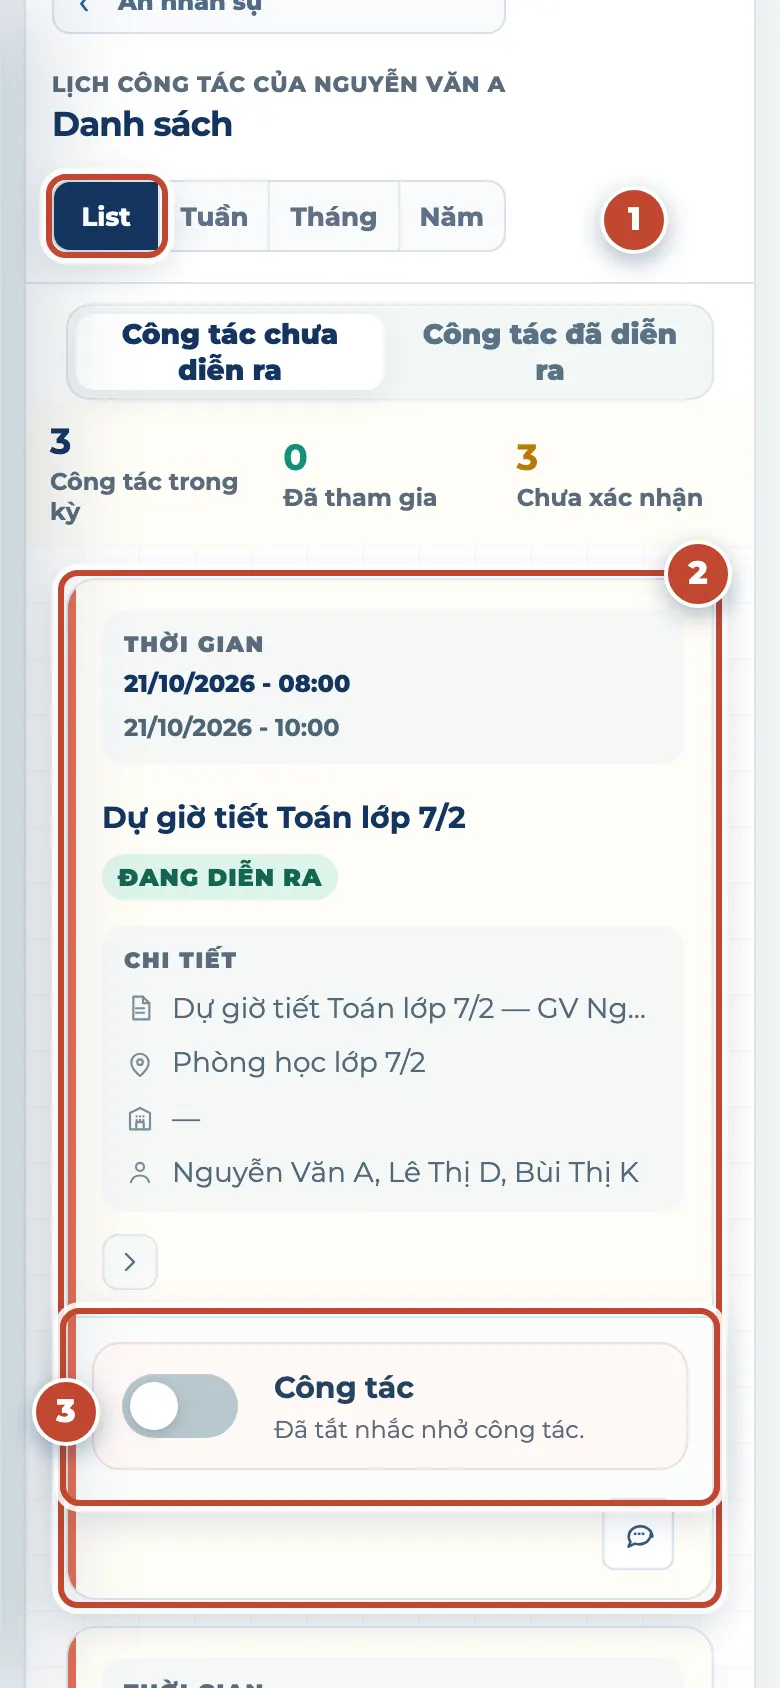
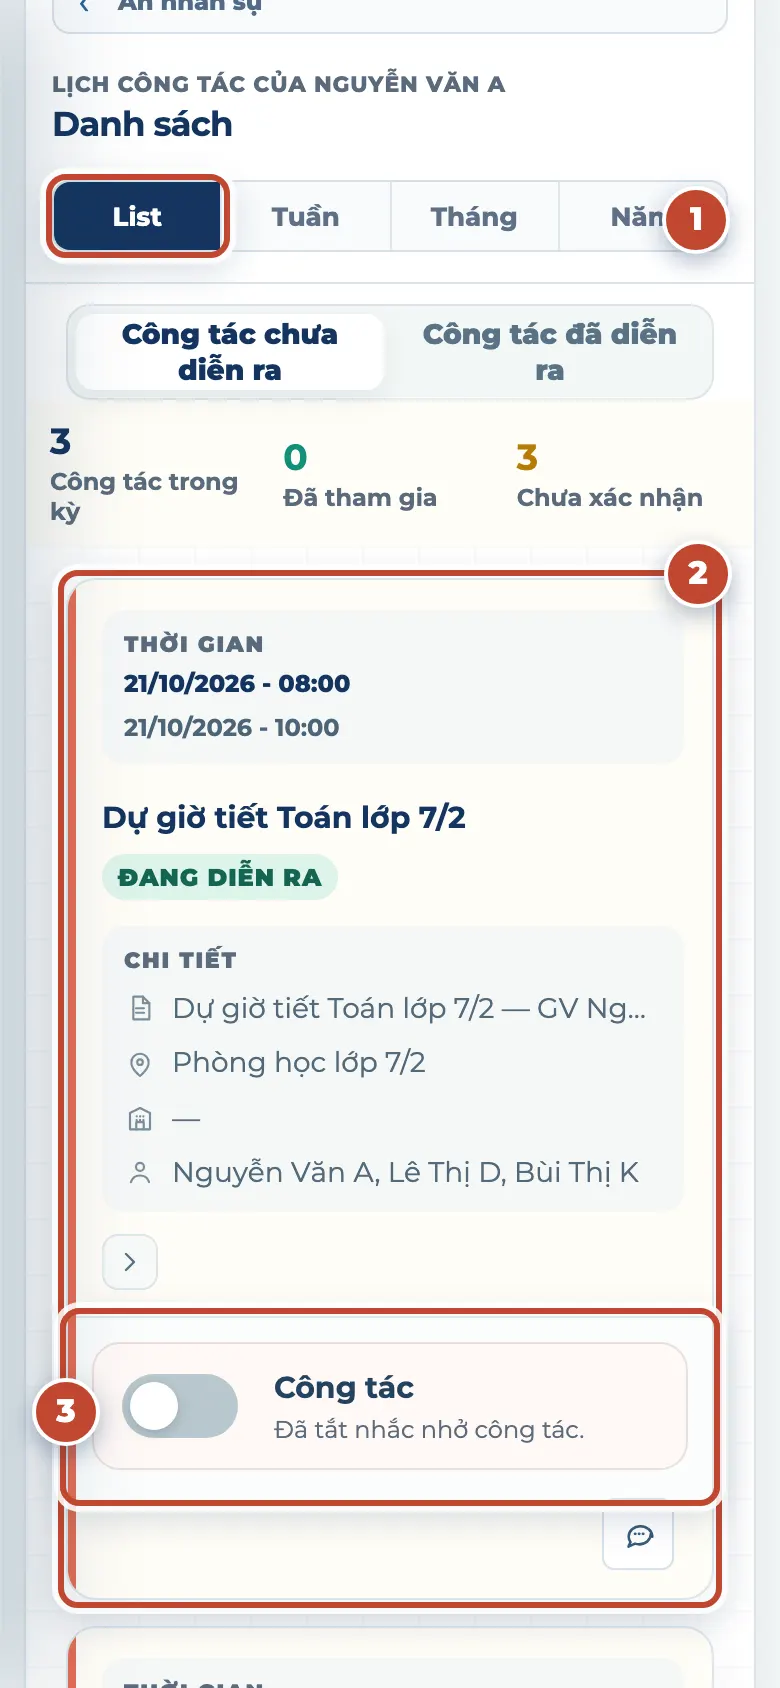
fix(reports): dd/MM/yyyy Mon–Sat week heading; full-width phone layout
- Personal calendar week heading now matches the duty sheet title range
  (Mon–Sat, dd/MM/yyyy) instead of "28/9–4/10, 2026".
- Báo cáo / Lịch công tác at phone width: the toolbar grid no longer
  shrinks to its content (base space-between), so the Nhân sự toggle and
  period/mode controls span the card; each Nhân sự department takes the
  full card width and its people share it.
- Reshot ct-ca-nhan guide images (fictional fixtures).

diff --git a/src/reports/dutyCalendar.css b/src/reports/dutyCalendar.css
@@ -1113,7 +1113,8 @@
   .report-person { grid-template-columns: 34px 145px; min-width: 195px; }
   .report-person > i { display: none; }
   .report-person-avatar { width: 34px; height: 34px; }
-  .report-calendar-toolbar { display: grid; }
+  /* The base flex rule's space-between would shrink the single grid track to its content. */
+  .report-calendar-toolbar { display: grid; grid-template-columns: minmax(0, 1fr); justify-content: stretch; }
   .report-toolbar-actions { justify-content: flex-start; }
 }
 
@@ -1159,8 +1160,12 @@
   .report-summary-row span { font-size: 12px; }
   .report-calendar-toolbar { padding: 15px 13px; }
   .report-calendar-title h3 { font-size: 17px; }
-  .report-toolbar-actions { display: grid; justify-content: stretch; }
+  .report-toolbar-actions { display: grid; grid-template-columns: minmax(0, 1fr); justify-content: stretch; }
   .report-period-nav, .report-mode-switch { justify-content: center; }
+  /* Nhân sự: one department per full-width page; its people share the width. */
+  .report-people-list { scroll-snap-type: x mandatory; }
+  .report-people-group { flex: 0 0 100%; min-width: 0; scroll-snap-align: start; }
+  .report-person { flex: 1 0 195px; grid-template-columns: 34px minmax(0, 1fr); }
   .report-period-nav button, .report-mode-switch button { flex: 1; }
   .report-event-detail { top: auto; right: 16px; bottom: 16px; left: 16px; width: auto; }
 }

diff --git a/src/reports/DutyReportsView.jsx b/src/reports/DutyReportsView.jsx
@@ -24,6 +24,7 @@ import {
   buildSharedScheduleRows,
   toIsoDate as toSharedIsoDate,
   formatVnDateSpan,
+  weekPeriodHeading,
 } from '../duties/sharedDutySchedule.js';
 import { dutyListDateWindow } from '../duties/dutyListRange.js';
 import { refreshCachedDutyCalendar } from '../duties/dutyScheduleCache.js';
@@ -91,15 +92,11 @@ function viewRange(mode, anchor) {
   const year = anchor.getFullYear();
   const month = anchor.getMonth();
   if (mode === 'week') {
-    const start = startOfWeek(anchor);
-    const end = endOfWeek(anchor);
-    const sameMonth = start.getMonth() === end.getMonth();
+    // Data window stays Mon–Sun; the heading matches the Mon–Sat duty sheet title.
     return {
-      start,
-      end,
-      title: sameMonth
-        ? `${start.getDate()}–${end.getDate()} tháng ${end.getMonth() + 1}, ${end.getFullYear()}`
-        : `${start.getDate()}/${start.getMonth() + 1}–${end.getDate()}/${end.getMonth() + 1}, ${end.getFullYear()}`,
+      start: startOfWeek(anchor),
+      end: endOfWeek(anchor),
+      title: weekPeriodHeading(toSharedIsoDate(anchor)),
     };
   }
   if (mode === 'month') {

diff --git a/src/duties/sharedDutySchedule.js b/src/duties/sharedDutySchedule.js
@@ -110,6 +110,12 @@ export function scheduleRange(mode, anchorIso) {
   };
 }
 
+/** Period heading above a week sheet: same Mon–Sat range as the sheet title, dd/MM/yyyy. */
+export function weekPeriodHeading(anchorIso) {
+  const range = scheduleRange('week', anchorIso);
+  return `${formatVnDate(range.startIso)} – ${formatVnDate(range.endIso)}`;
+}
+
 export function datesInSchedule(range) {
   const days = [];
   for (
